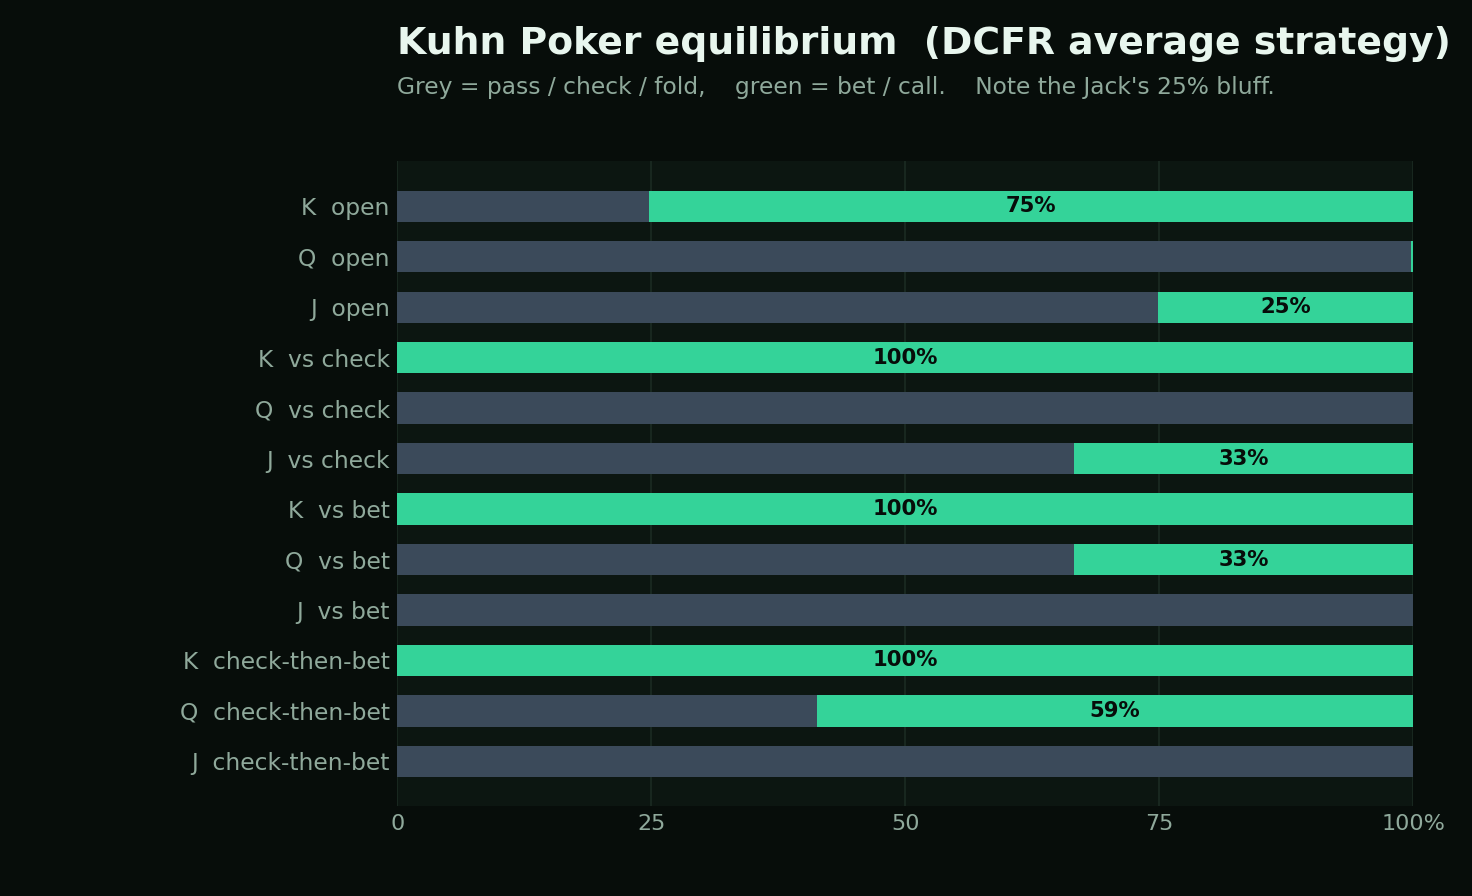
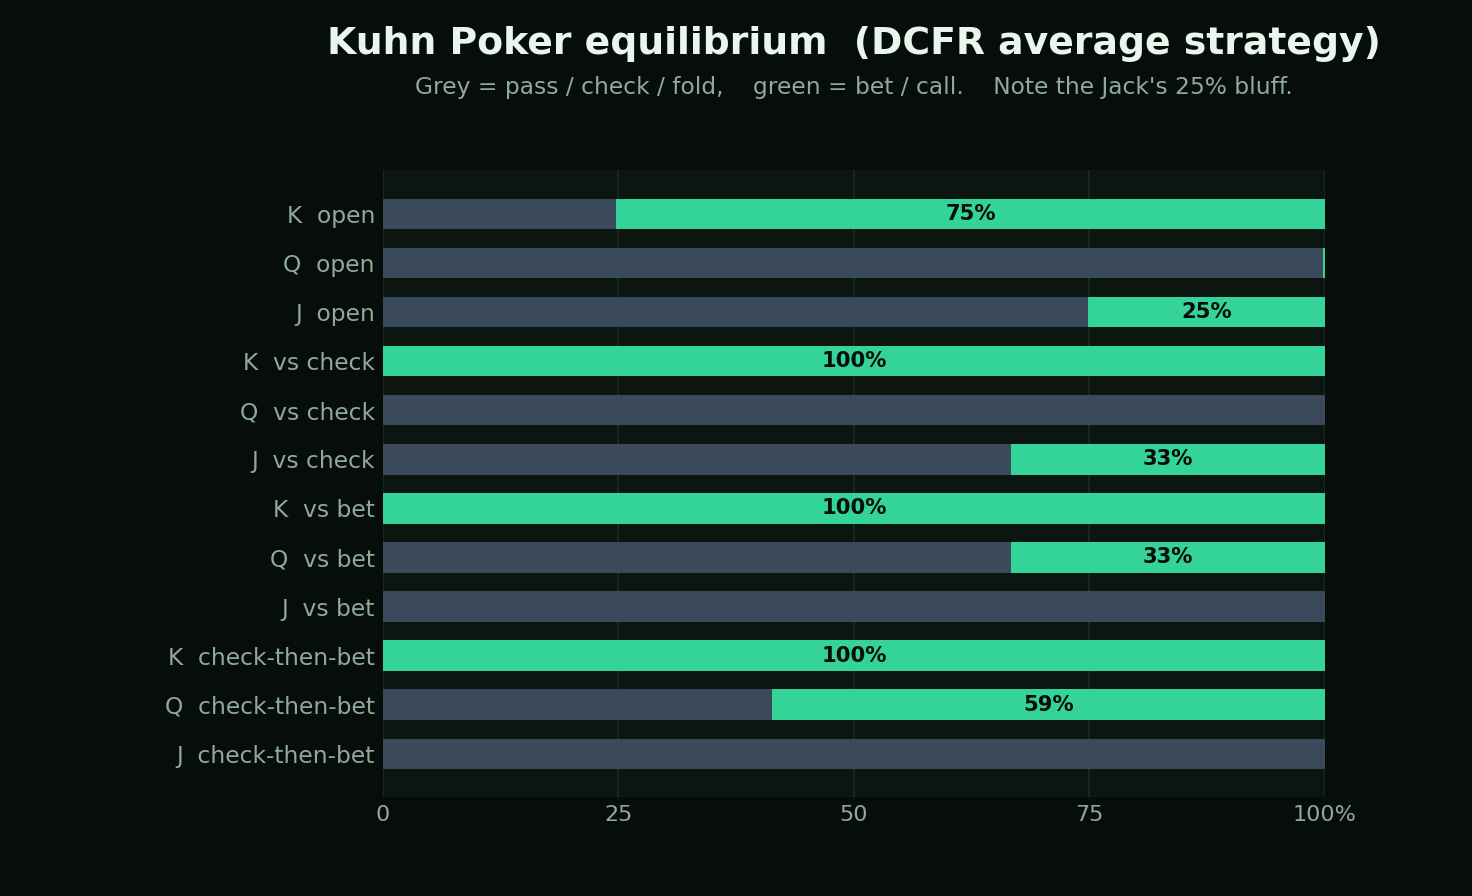
Center the heading on the Kuhn strategy figure

diff --git a/scripts/make_readme_assets.py b/scripts/make_readme_assets.py
@@ -128,8 +128,9 @@ def kuhn_strategy_plot():
     order = [k for k in order if k in fs]
 
     fig, ax = plt.subplots(figsize=(9.2, 5.6))
-    fig.subplots_adjust(left=0.27, right=0.96, top=0.82, bottom=0.1)
+    fig.subplots_adjust(left=0.26, right=0.90, top=0.81, bottom=0.11)
     ax.set_facecolor(PANEL)
+    cx = 0.58  # horizontal centre of the plotting axes, for the heading
 
     y = np.arange(len(order))[::-1]
     for yi, key in zip(y, order):
@@ -152,12 +153,12 @@ def kuhn_strategy_plot():
     ax.set_axisbelow(True)
     ax.xaxis.grid(True, color=GRID, lw=0.7)
 
-    fig.text(0.27, 0.94, "Kuhn Poker equilibrium  (DCFR average strategy)",
-             fontsize=17, fontweight="bold", color=TEXT)
-    fig.text(0.27, 0.895,
+    fig.text(cx, 0.94, "Kuhn Poker equilibrium  (DCFR average strategy)",
+             fontsize=17, fontweight="bold", color=TEXT, ha="center")
+    fig.text(cx, 0.895,
              "Grey = pass / check / fold,    green = bet / call.    "
              "Note the Jack's 25% bluff.",
-             fontsize=10.5, color=MUTED)
+             fontsize=10.5, color=MUTED, ha="center")
     fig.savefig(os.path.join(OUT, "kuhn-strategy.png"), dpi=160)
     plt.close(fig)
     print("wrote kuhn-strategy.png")